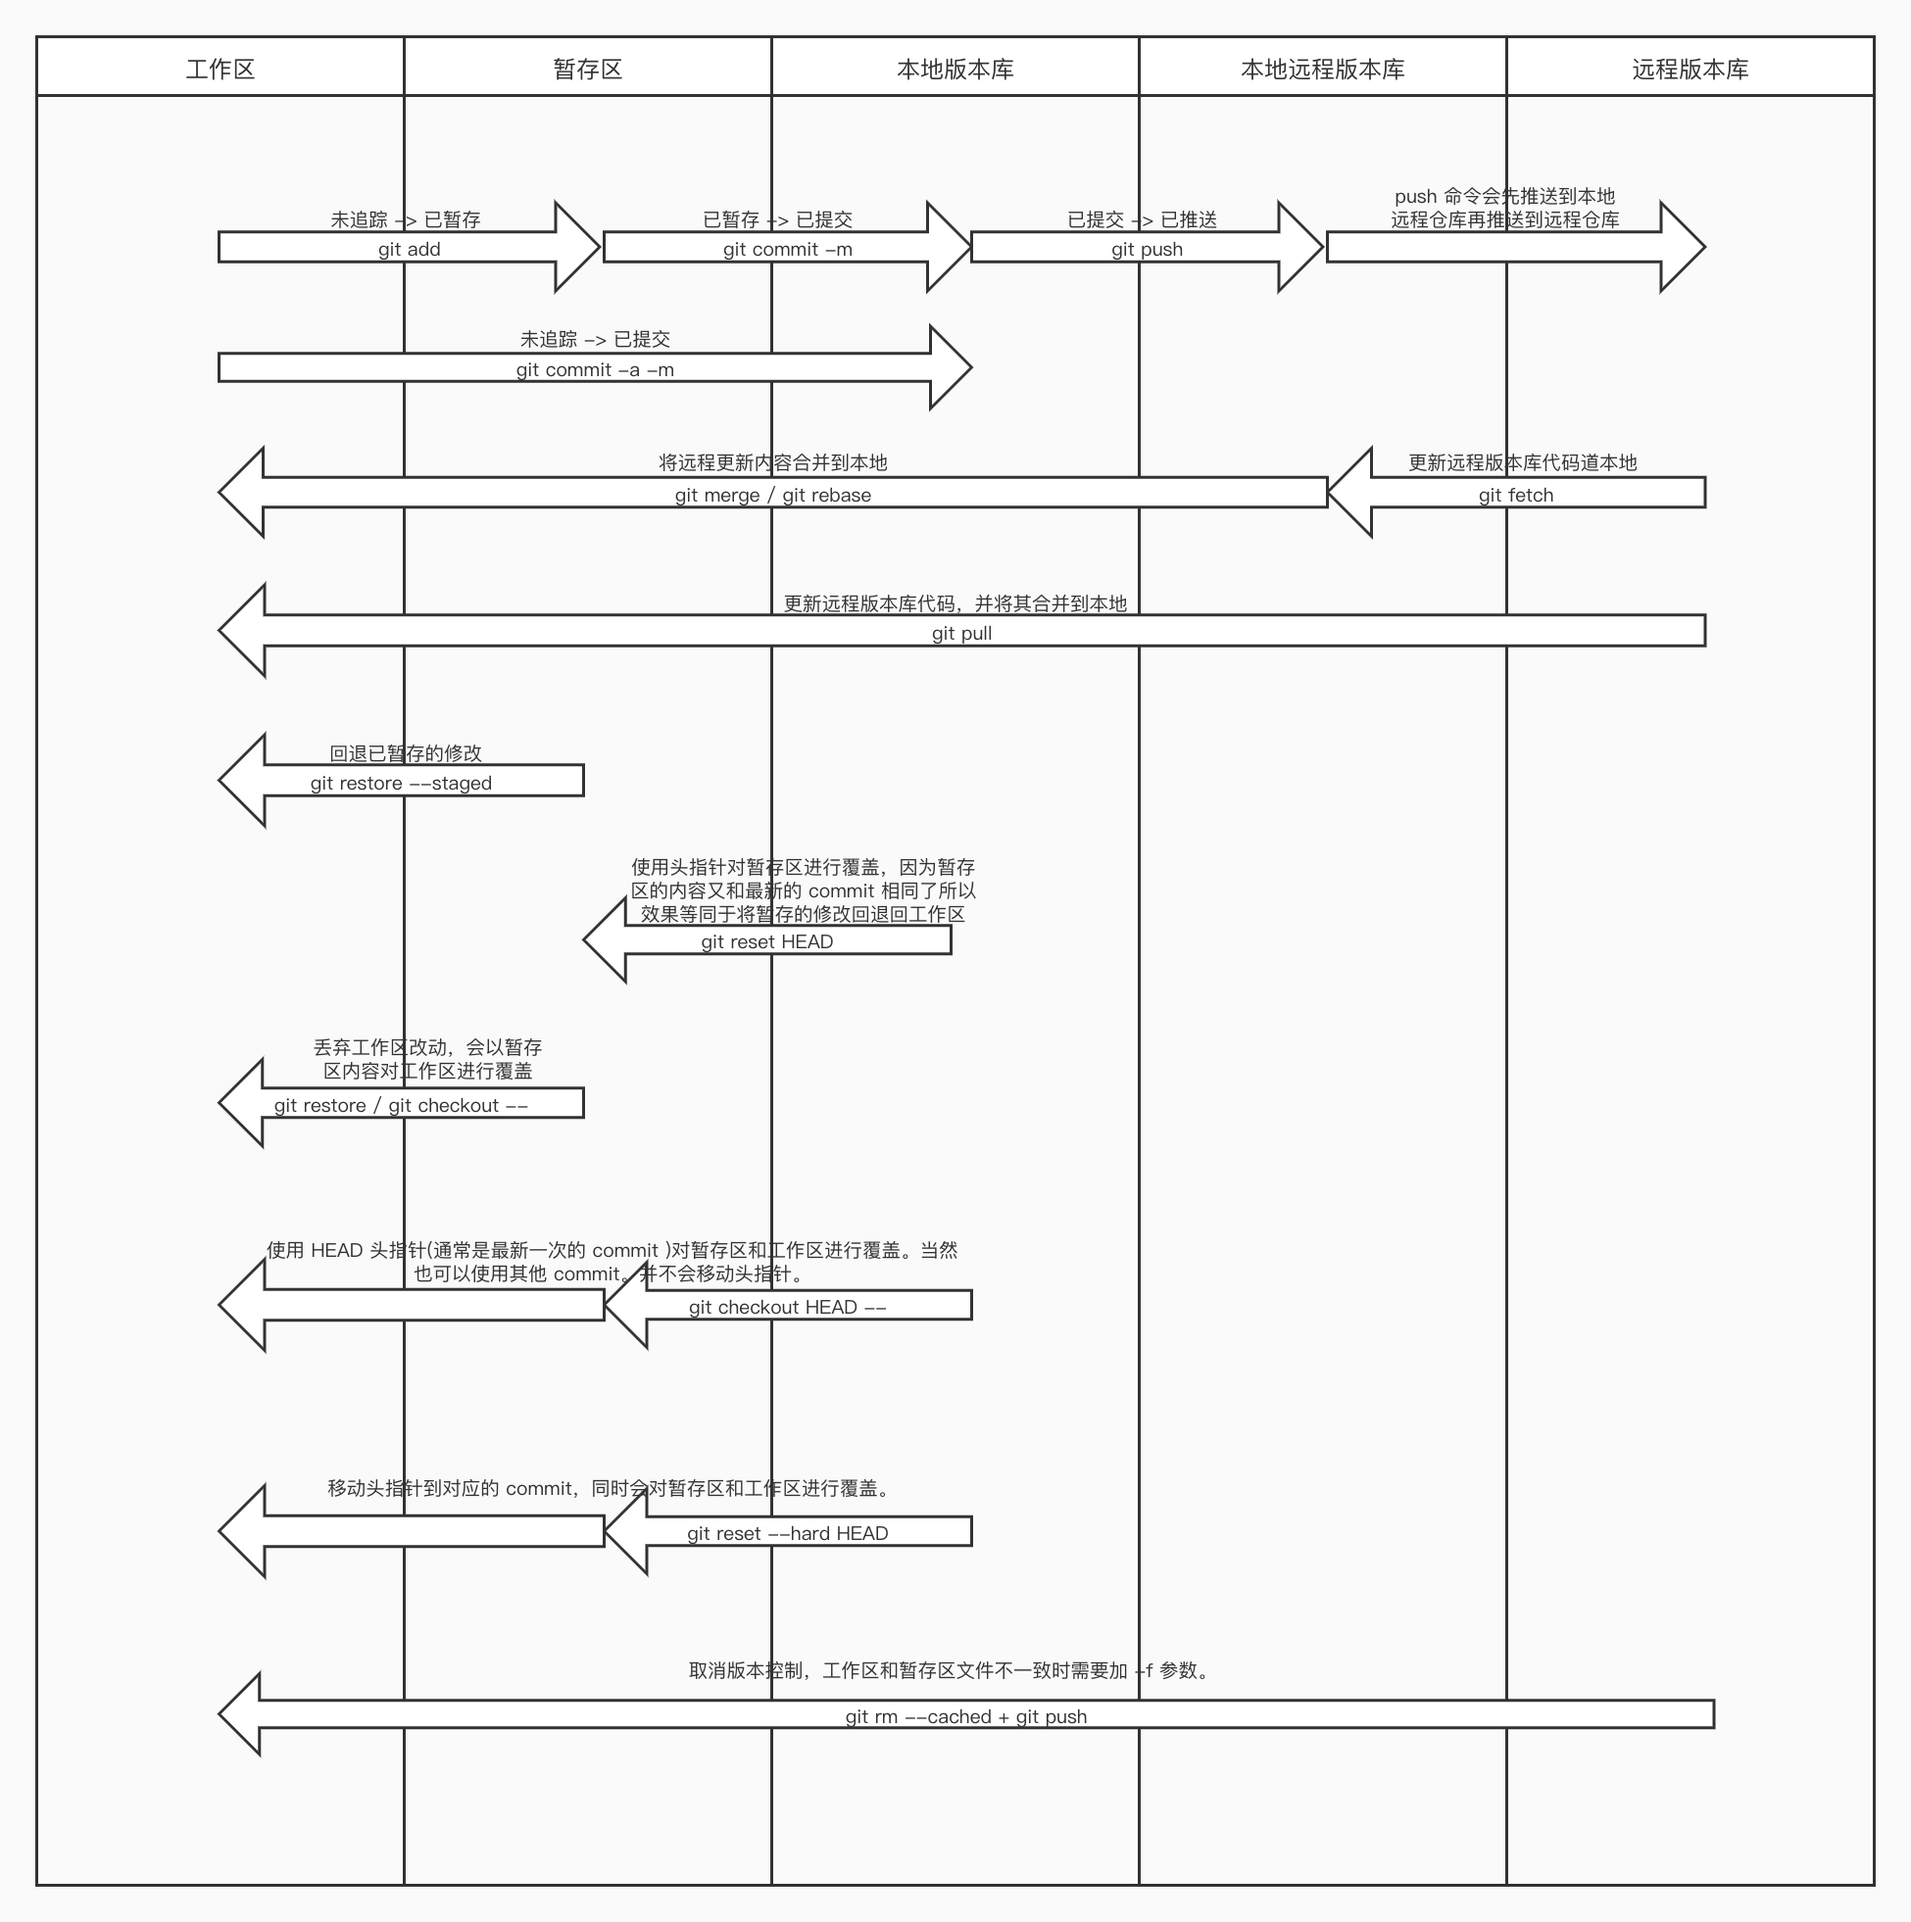
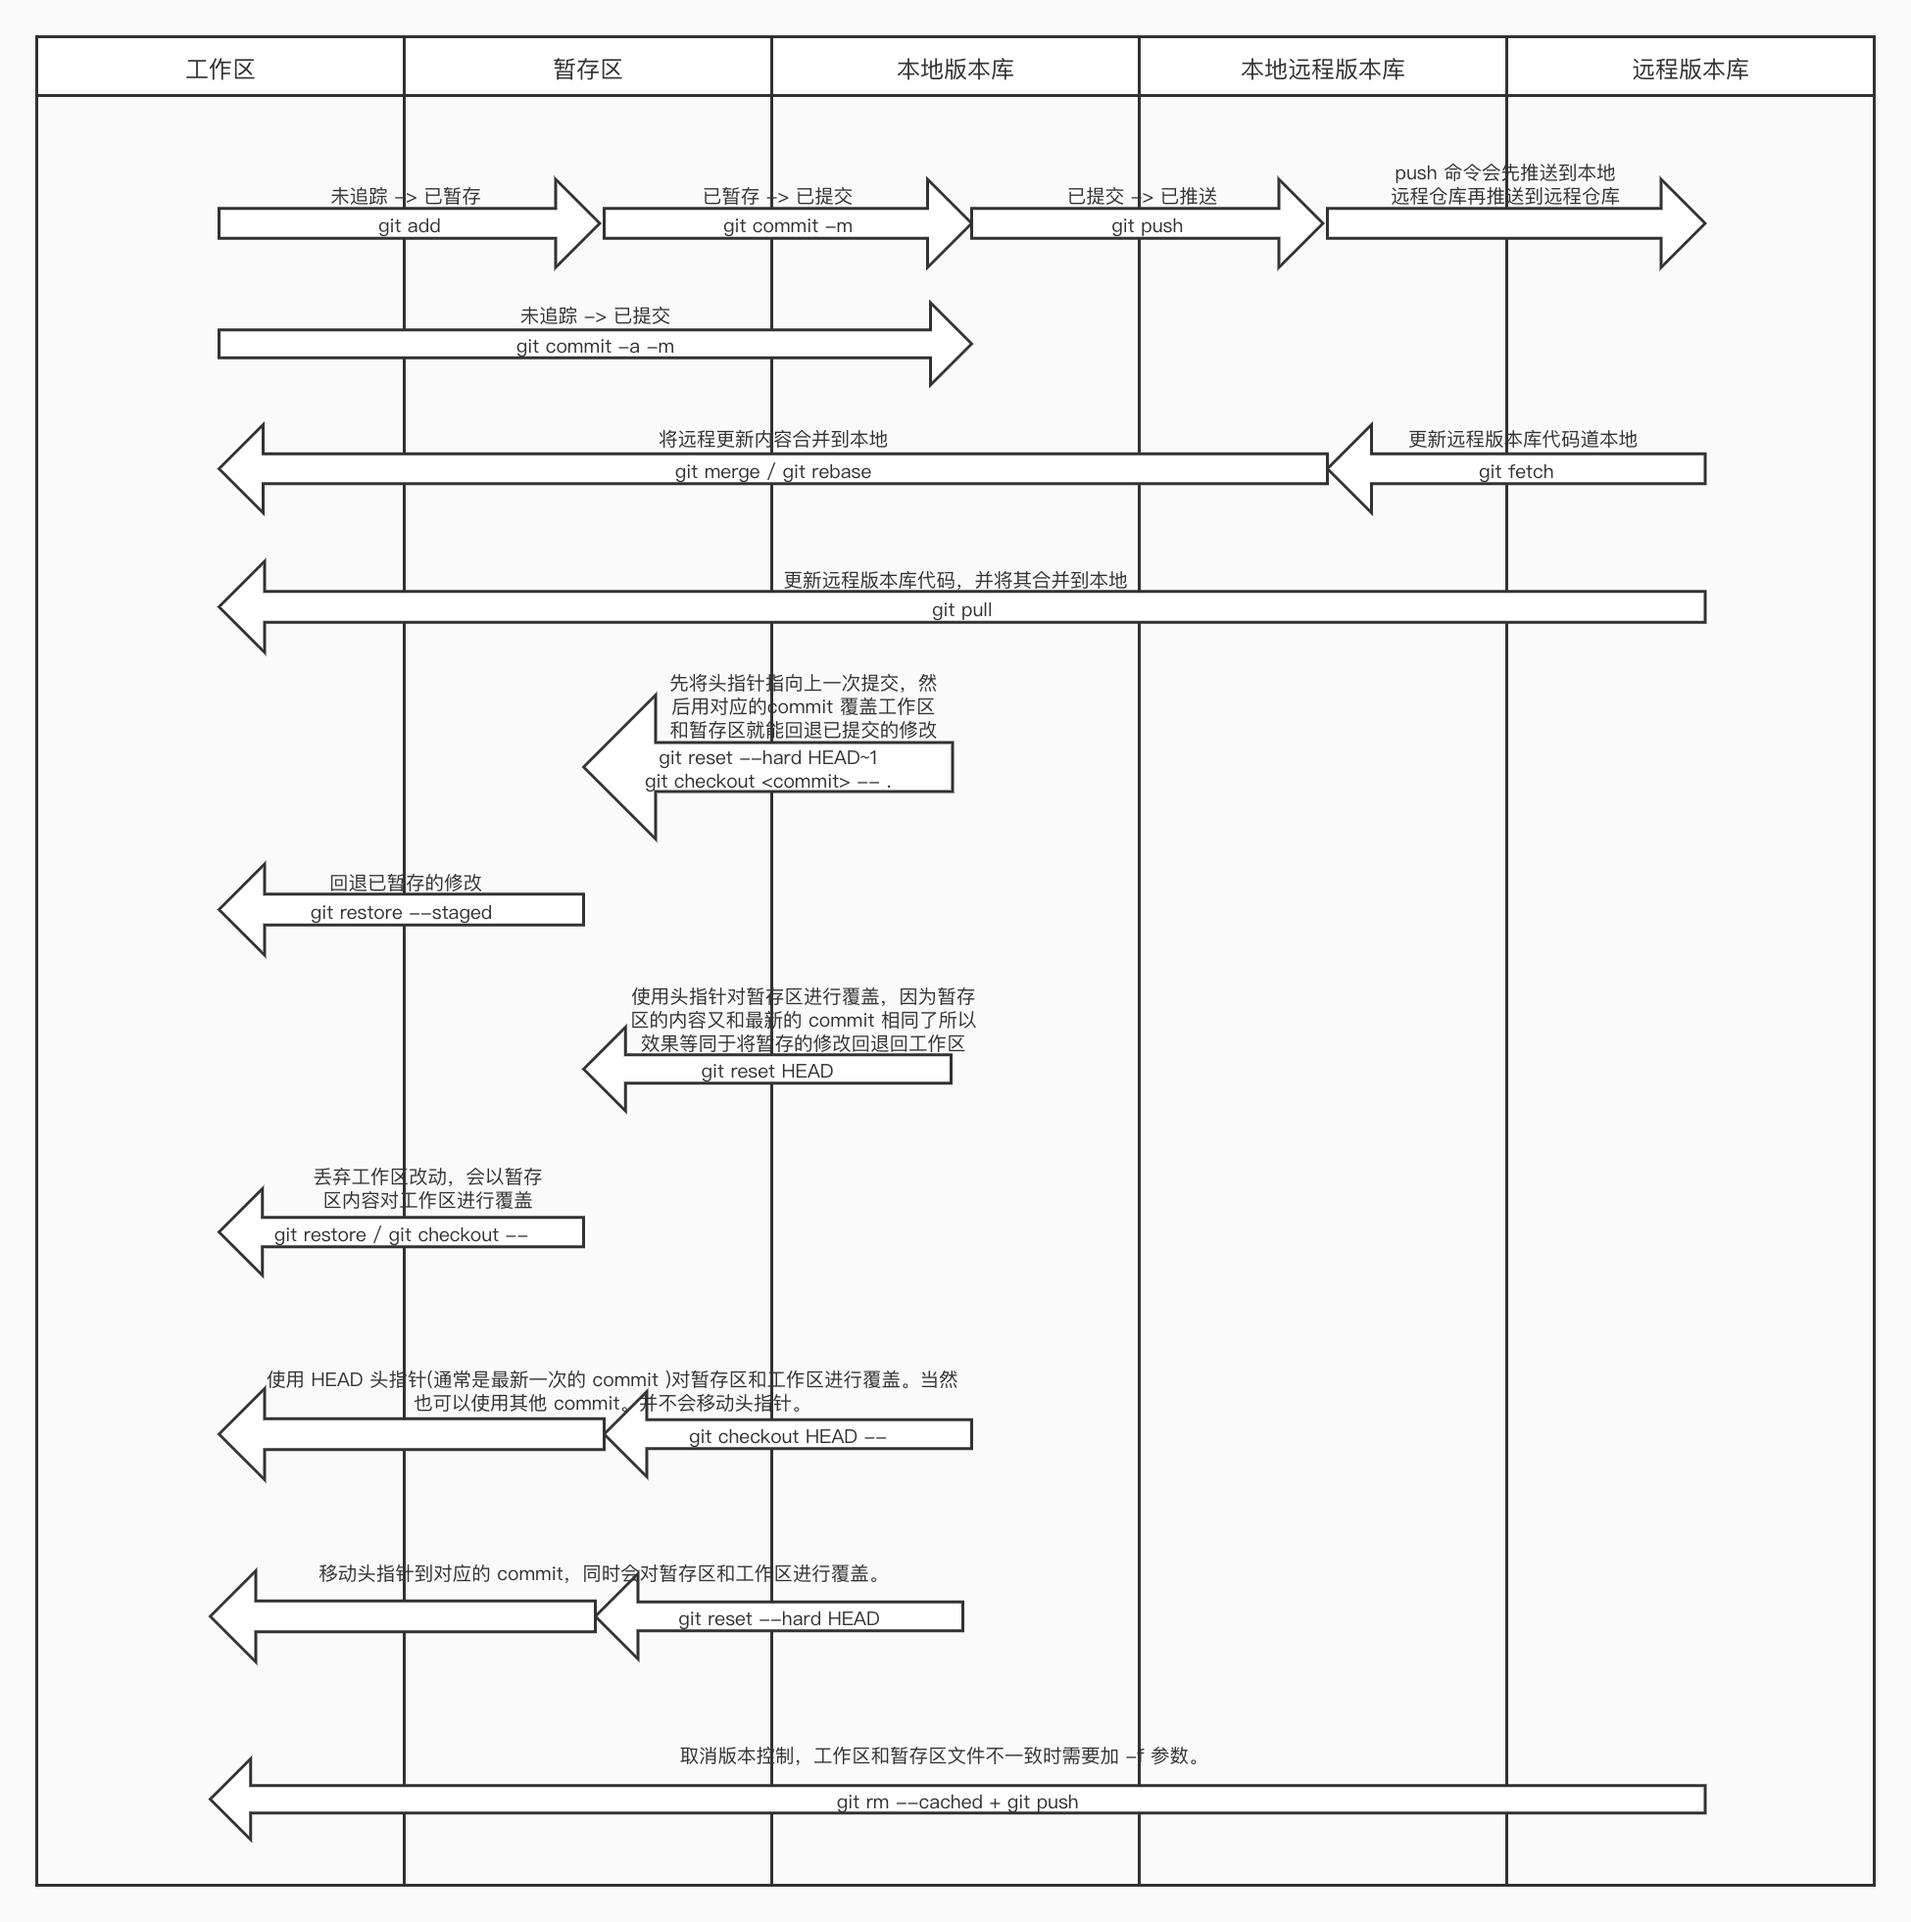
update git.md

Changed region(s): [[0.1231, 0.0622, 0.8923, 0.9638], [0.1231, 0.3731, 0.2769, 0.4975]]

diff --git a/content/posts/git.md b/content/posts/git.md
@@ -23,8 +23,10 @@ tags: ["通用", "学习笔记"]
 	* [分支管理](#分支管理)
 	* [查看 commit 历史](#查看-commit-历史)
 	* [比较文件差异](#比较文件差异)
+	* [退回已提交未推送的 commit](#退回已提交未推送的-commit)
+	* [从暂存区退回工作区修改](#从暂存区退回工作区修改)
 	* [丢弃工作区修改](#丢弃工作区修改)
-	* [退回暂存区修改](#退回暂存区修改)
+	* [丢弃工作区和暂存区的修改](#丢弃工作区和暂存区的修改)
 	* [丢弃未提交的 commit](#丢弃未提交的-commit)
 	* [丢弃已提交的 commit](#丢弃已提交的-commit)
 	* [恢复误操作丢弃的 commit](#恢复误操作丢弃的-commit)
@@ -74,6 +76,8 @@ tags: ["通用", "学习笔记"]
 - 不同名，相同内容的文件，其哈希值相同，其 blob 对象也是共用的
 
 ### 工作区、暂存区、版本库
+
+[图例参考](https://www.processon.com/view/link/5e6ad76de4b0ee15dc05f18d)：
 
 ![Git 命令图解](/git1.jpg)
 
@@ -166,7 +170,7 @@ git commit -m '提交原因'
 ```bash
 # 密钥位置 C:\Users\ibm\.ssh\*
 # 默认公钥文件名称 id_rsa.pub (需在github添加公钥)
-# 创建ssh-keygen(公私钥对)
+# 没有使用过 ssh 的需要创建ssh-keygen(公私钥对)
 ssh-keygen -C 'your_email'
 
 # 将本地仓库和远程仓库关联
@@ -195,17 +199,17 @@ git fetch
 # 创建分支
 git branch <branchName>
 
+# 创建并切换分支
+git switch -c <branchName>
+
 # 使用远程分支创建本地对应分支
-git checkout -b <branchName> origin/<originBranchName>
+git switch -c <branchName> origin/<originBranchName>
 
 # 切换分支
 git switch <branchName>
 
-# 创建并切换分支
-git switch -c <branchName>
-
 # 查看分支
-git branch
+git branch [-a: 查看远程]
 
 # 合并指定分支到当前分支
 git merge <branchName>
@@ -257,22 +261,38 @@ git diff <commit_id> <commit_id>
 # 以上命令可以不指定 <filename>，则对全部文件操作。commit 可以设置为HEAD指针。
 ```
 
+### 退回已提交未推送的 commit
+
+```bash
+# 记下当前 commit 的 id
+# HEAD 指向上一次提交
+git reset --hard HEAD~1
+# 将相应的 commit 的内容覆盖回暂存区
+git checkout <commit> -- .
+```
+
+### 从暂存区退回工作区修改
+
+```bash
+git restore --staged <files>
+# or
+git reset HEAD
+```
+
 ### 丢弃工作区修改
 
 ```bash
-# 省略commit，则会用暂存区的文件覆盖工作区中的文件
-git checkout [commit : 指定提交版本覆盖暂存区和工作区的内容] -- [files : 指定需要覆盖的文件]
-# 使用暂存区覆盖工作区
+git restore <files>
+# or
 git checkout -- .
-# 使用 HEAD 覆盖工作区和暂存区
-git checkout HEAD -- .
 ```
 
-### 退回暂存区修改
+### 丢弃工作区和暂存区的修改
 
 ```bash
-# 将暂存区内容退回到工作区
-git reset HEAD
+git checkout HEAD -- .
+# or
+git reset --hard HEAD
 ```
 
 ### 丢弃未提交的 commit
@@ -417,4 +437,4 @@ git cat-file [-t : 查看类型] [-p : 查看内容] <git对象hash>
 
 > [SSH Key 管理](https://www.jianshu.com/p/a3b4f61d4747)  
 > [廖雪峰的 Git 教程](https://www.liaoxuefeng.com/wiki/896043488029600)  
-> [图解 Git 工作区、暂存区、版本库之间的关系](https://segmentfault.com/a/1190000017053187) > [图解 Git 工作区、暂存区、版本库之间的关系](https://segmentfault.com/a/1190000017053187) > [图解 Git 工作区、暂存区、版本库之间的关系](https://segmentfault.com/a/1190000017053187)
+> [图解 Git 工作区、暂存区、版本库之间的关系](https://segmentfault.com/a/1190000017053187)
